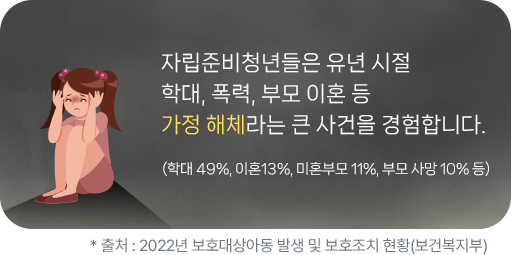
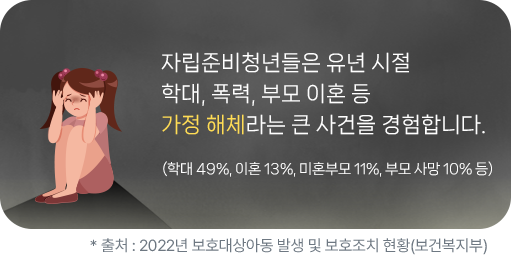
모바일 수정5

Changed region(s): [[0.499, 0.6314, 0.9687, 0.6863]]

diff --git a/mobile/css/common.css b/mobile/css/common.css
@@ -242,7 +242,7 @@ html,body{height: 100%;}
     height: 0;
 }
 
-.sec01 .title .sub-txt {font-size: 22px; font-weight: 600; text-align: center;}
+.sec01 .title .sub-txt {font-size: 22px; font-weight: 800; text-align: center;}
 .sec01 .bottom-txt {position: absolute; top: 1069px; left: 59px;}
 .sec01 .bottom-txt p {font-size: 25px; color: #fff; line-height: 46px;}
 .sec01 .bottom-txt p span {position: relative; display: inline-block;  font-size: 25px; color: #000; font-weight: 900; margin-right: 9px;}

diff --git a/mobile/index.html b/mobile/index.html
@@ -582,7 +582,6 @@
 			})
 
 		});
-
 		$('.graf-cont01 .counter-value').counterUp({'time':700});
 		$('.graf-cont02 .counter-value').counterUp({'time':700});
 
@@ -631,7 +630,7 @@
 			//once: true,
 			//delay: 0,
 			easing: "ease-in-sine",
-			offset: 200,
+			offset: 400,
 			duration: 1000,
 			easing: 'ease-out'
 		});
